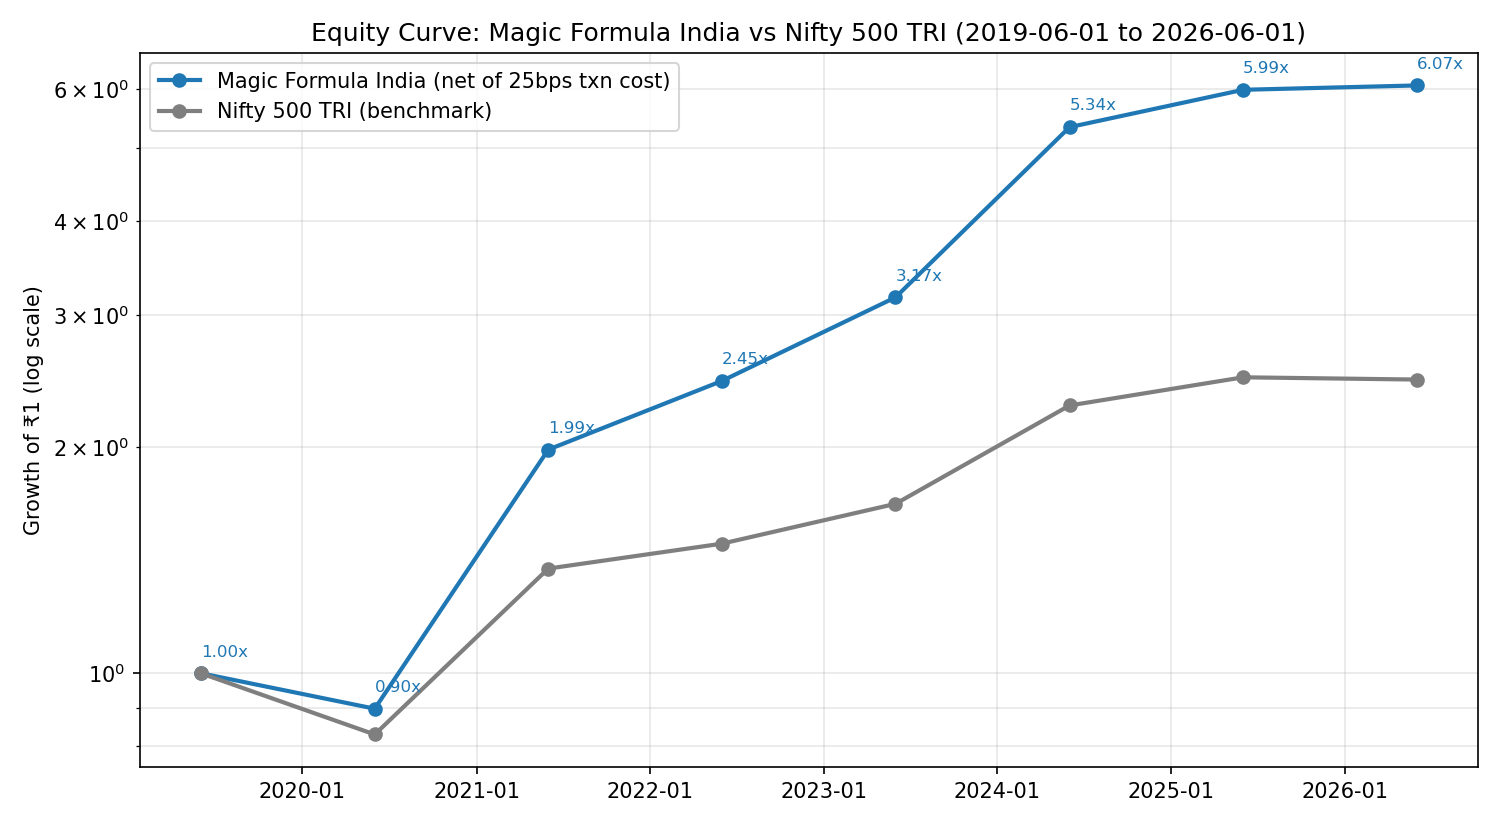
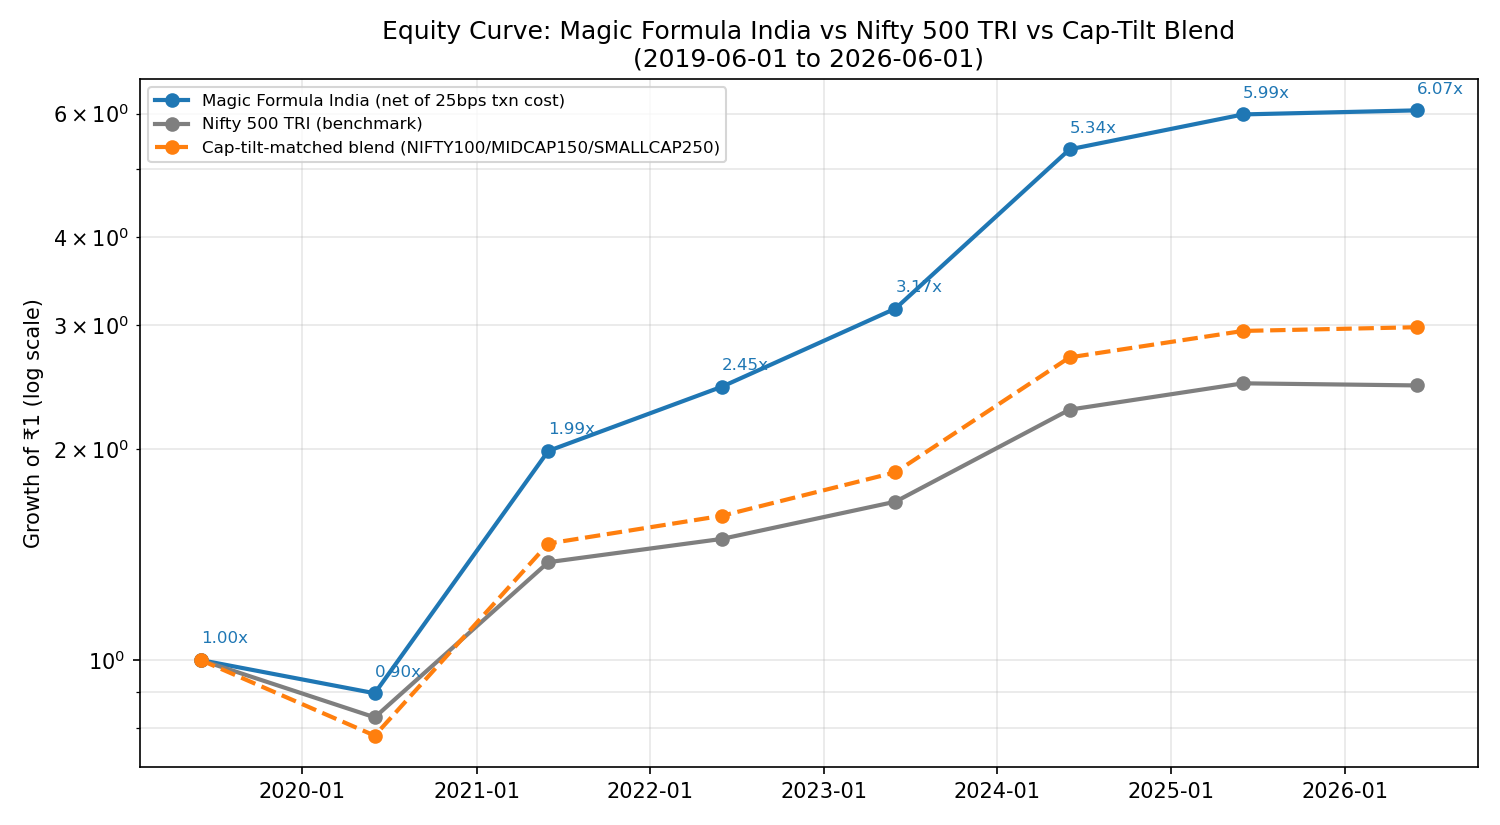
Cap-tilt-matched benchmark: isolate stock-selection alpha from cap-cycle riding
Nifty 500 TRI alone can't distinguish "picked better stocks" from "held
more small/mid-cap exposure during a period small/mid outperformed."
Built a second benchmark - NIFTY 100 (large) / NIFTY MIDCAP 150 (mid) /
NIFTY SMALLCAP 250 (small), real TRI values pulled live from
niftyindices.com, blended each period by the strategy's own actual
cap-bucket composition at that period's start (not a fixed weight).

Result: mean annual excess vs Nifty 500 TRI is +18.9%; vs the cap-tilt
blend it's +14.2% - about a quarter of the raw excess is explained by
cap-tilt, three-quarters survives after controlling for it. Blend beats
Nifty 500 TRI's own CAGR (16.9% vs 13.7%, as expected given the
strategy's mid/small tilt), and the strategy still beats the blend in
all 7 periods (100% hit rate against it too, not just against Nifty 500).

diff --git a/scripts/run_cap_tilt_benchmark.py b/scripts/run_cap_tilt_benchmark.py
@@ -1,0 +1,198 @@
+"""Cap-tilt-matched benchmark comparison, on top of the same real 2019-2026
+basket walk run_backtest_stats.py already produced. Re-derives the walk
+from the same cached universe/fundamentals/price data (no re-fetch) rather
+than importing run_backtest_stats.py directly, since scripts/ isn't a
+package - this duplicates the same setup pattern the other pilot scripts
+already use.
+
+Nifty 500 TRI alone conflates two different questions: did the strategy
+pick better stocks, and did it simply hold more small/mid-cap exposure
+during a period when small/mid outperformed large. A blended benchmark -
+NIFTY 100 (large) / NIFTY MIDCAP 150 (mid) / NIFTY SMALLCAP 250 (small),
+weighted each period by the strategy's OWN actual cap-bucket composition
+at the start of that period - isolates the first question from the
+second. If most of the excess return survives against this blend, that's
+real stock-selection alpha. If it mostly disappears, the strategy was
+riding the cap-tilt cycle, not picking better names within it.
+
+All three index TRI series pulled live from niftyindices.com's own
+"Total returns Index Values" report, same nearest-trading-day-on-or-
+before convention as the Nifty 500 TRI pull.
+"""
+
+from __future__ import annotations
+
+import pickle
+from datetime import date
+from pathlib import Path
+
+import pandas as pd
+
+from magicformula.data_fetch.fundamentals import FundamentalsRecord, _latest_record_per_symbol
+from magicformula.data_fetch.prices import (
+    PRICE_LOOKUP_MAX_TOLERANCE_DAYS,
+    SHARES_LOOKUP_MAX_TOLERANCE_DAYS,
+    nearest_value_lookup,
+)
+from magicformula.formulas import FinancialInputs, compute_metrics
+from magicformula.ranker import RankedStock, rank_universe
+from magicformula.backtest import run_backtest, compute_cagr, compute_annualized_volatility, compute_max_drawdown, compute_hit_rate
+from magicformula.universe import build_universe
+
+AMFI_XLSX_URL = "https://www.amfiindia.com/Themes/Theme1/downloads/AverageMarketCapitalization31Dec2025.xlsx"
+REBALANCE_DATES = [date(y, 6, 1) for y in range(2019, 2027)]
+TOP_N = 30
+SERIES_CACHE_PATH = Path("data/raw/point_in_time_series_cache.pkl")
+RISK_FREE_RATE = 0.053
+
+# Real Nifty 500 TRI, same 8 dates as run_backtest_stats.py
+NIFTY500_TRI = [14591.01, 12092.03, 20113.79, 21709.49, 24528.90, 33168.20, 36160.26, 35911.81]
+
+# Real NIFTY 100 (large-cap proxy) TRI, pulled live from niftyindices.com,
+# same nearest-trading-day-on-or-before convention.
+NIFTY100_TRI = [15338.44, 12917.31, 20613.31, 22079.79, 24595.51, 31772.04, 34591.14, 33645.29]
+# Real NIFTY MIDCAP 150 TRI
+MIDCAP150_TRI = [7774.49, 6346.04, 11932.83, 13233.54, 15828.39, 24327.24, 26763.04, 28378.90]
+# Real NIFTY SMALLCAP 250 TRI
+SMALLCAP250_TRI = [6497.86, 4449.73, 9758.89, 10814.89, 12497.92, 19664.65, 21308.95, 21463.20]
+
+
+def period_returns(series):
+    return [series[i + 1] / series[i] - 1 for i in range(len(series) - 1)]
+
+
+def load_fundamentals(symbols):
+    df = pd.read_parquet("data/raw/full_universe_fundamentals.parquet")
+    df = df[df["symbol"].isin(symbols)]
+    fields = [
+        "symbol", "sector", "broad_sector", "fiscal_year_end", "operating_profit",
+        "depreciation_amortization", "total_assets", "other_liabilities", "investments",
+        "cwip", "borrowings", "market_cap", "source_url", "statement", "cap_bucket",
+    ]
+    return [FundamentalsRecord(**row._asdict()) for row in df[fields].itertuples(index=False)]
+
+
+def make_rank_fn(price_shares_by_symbol, cap_bucket_by_symbol):
+    def rank_fn(eligible, rebalance_date):
+        latest = _latest_record_per_symbol(eligible)
+        metrics = []
+        for r in latest:
+            series = price_shares_by_symbol.get(r.symbol)
+            if series is None:
+                continue
+            price_series, shares_series = series
+            price = nearest_value_lookup(price_series, rebalance_date, max_days_tolerance=PRICE_LOOKUP_MAX_TOLERANCE_DAYS)
+            if price is None:
+                continue
+            shares = nearest_value_lookup(shares_series, rebalance_date, max_days_tolerance=SHARES_LOOKUP_MAX_TOLERANCE_DAYS)
+            if shares is None:
+                continue
+            market_cap = (price * shares) / 1e7
+            inputs = FinancialInputs(
+                symbol=r.symbol, operating_profit=r.operating_profit,
+                depreciation_amortization=r.depreciation_amortization,
+                total_assets=r.total_assets, current_liabilities=r.other_liabilities,
+                market_cap=market_cap, total_debt=r.borrowings,
+                cash_and_equivalents=0, other_liquid_investments=r.investments,
+            )
+            metrics.append(compute_metrics(inputs, roce_mode="standard"))
+        return rank_universe(metrics, mode="within_bucket", cap_bucket_by_symbol=cap_bucket_by_symbol)
+    return rank_fn
+
+
+def main():
+    entries = build_universe(AMFI_XLSX_URL, as_of=date(2026, 9, 6))
+    entry_by_symbol = {e.nse_symbol: e for e in entries if e.nse_symbol}
+    fundamentals_all = load_fundamentals(set(entry_by_symbol))
+    all_bucket_symbols = {e.nse_symbol for e in entries if e.cap_bucket in ("large", "mid", "small") and e.nse_symbol}
+    fundamentals = [r for r in fundamentals_all if r.symbol in all_bucket_symbols]
+    symbols_with_fundamentals = sorted({r.symbol for r in fundamentals})
+    cap_bucket_by_symbol = {s: entry_by_symbol[s].cap_bucket for s in symbols_with_fundamentals}
+    sector_by_symbol = {r.symbol: r.sector for r in fundamentals if r.sector}
+    listing_date_by_symbol = {
+        s: entry_by_symbol[s].date_of_listing for s in symbols_with_fundamentals
+        if entry_by_symbol[s].date_of_listing is not None
+    }
+
+    with SERIES_CACHE_PATH.open("rb") as f:
+        price_shares_by_symbol = pickle.load(f)
+
+    def price_lookup(symbol, d):
+        series = price_shares_by_symbol.get(symbol)
+        if series is None:
+            return None
+        price_series, _ = series
+        return nearest_value_lookup(price_series, d, max_days_tolerance=PRICE_LOOKUP_MAX_TOLERANCE_DAYS)
+
+    rank_fn = make_rank_fn(price_shares_by_symbol, cap_bucket_by_symbol)
+    nifty500_returns = period_returns(NIFTY500_TRI)
+
+    result = run_backtest(
+        REBALANCE_DATES, fundamentals, rank_fn, price_lookup, nifty500_returns,
+        top_n=TOP_N, sector_by_symbol=sector_by_symbol, listing_date_by_symbol=listing_date_by_symbol,
+        transaction_cost_bps=25.0, risk_free_rate=RISK_FREE_RATE, periods_per_year=1.0,
+    )
+
+    # Cap-bucket composition of the basket held INTO each period (i.e. the
+    # basket formed at the period's start date) - this is what the blend
+    # weight should track, matching what compute_period_return itself
+    # prices (step[i].outcome.weights held from step[i].date to step[i+1].date).
+    large_r = period_returns(NIFTY100_TRI)
+    mid_r = period_returns(MIDCAP150_TRI)
+    small_r = period_returns(SMALLCAP250_TRI)
+
+    print(f"{'Period':<26}{'Strategy':>10}{'Nifty500':>10}{'Blend':>10}{'ExcVs500':>10}{'ExcVsBlend':>12}{'L/M/S wt':>16}")
+    blended_returns = []
+    bucket_weights_by_period = []
+    for i, step in enumerate(result.steps[:-1]):
+        holdings = step.outcome.holdings
+        by_bucket = {"large": 0, "mid": 0, "small": 0}
+        for s in holdings:
+            b = cap_bucket_by_symbol.get(s)
+            if b in by_bucket:
+                by_bucket[b] += 1
+        n = sum(by_bucket.values())
+        w_large, w_mid, w_small = by_bucket["large"] / n, by_bucket["mid"] / n, by_bucket["small"] / n
+        bucket_weights_by_period.append((w_large, w_mid, w_small))
+        blend = w_large * large_r[i] + w_mid * mid_r[i] + w_small * small_r[i]
+        blended_returns.append(blend)
+
+        sr = result.period_returns[i]
+        br = result.benchmark_returns[i]
+        start, end = step.rebalance_date, result.steps[i + 1].rebalance_date
+        print(f"{start} -> {end}  {sr:+9.4f}{br:+10.4f}{blend:+10.4f}{sr-br:+10.4f}{sr-blend:+12.4f}"
+              f"   {w_large:.0%}/{w_mid:.0%}/{w_small:.0%}")
+
+    blend_cagr = compute_cagr(blended_returns, 1.0)
+    blend_vol = compute_annualized_volatility(blended_returns, 1.0)
+    from magicformula.backtest import compute_equity_curve
+    blend_equity = compute_equity_curve(blended_returns)
+    blend_dd = compute_max_drawdown(blend_equity)
+    blend_hit_rate = compute_hit_rate(result.period_returns, blended_returns)
+
+    print(f"\nBlended benchmark CAGR:  {blend_cagr:+.4%}")
+    print(f"Blended benchmark vol:   {blend_vol:.4%}")
+    print(f"Blended benchmark max drawdown: {blend_dd:.4%}")
+    print(f"Strategy hit rate vs blend: {blend_hit_rate:.4%}")
+    print(f"Strategy CAGR:           {result.stats.cagr:+.4%}")
+    print(f"\nMean annual excess vs Nifty 500 TRI: {sum(r-b for r,b in zip(result.period_returns, result.benchmark_returns))/len(result.period_returns):+.4%}")
+    print(f"Mean annual excess vs cap-tilt blend: {sum(r-b for r,b in zip(result.period_returns, blended_returns))/len(blended_returns):+.4%}")
+
+    print("\nBlended benchmark equity curve:", [round(v, 4) for v in blend_equity])
+    print("Strategy equity curve:         ", [round(v, 4) for v in result.equity_curve])
+
+    import json
+    with open("data/raw/cap_tilt_benchmark.json", "w") as f:
+        json.dump({
+            "period_returns": result.period_returns,
+            "nifty500_returns": result.benchmark_returns,
+            "blended_returns": blended_returns,
+            "bucket_weights_by_period": bucket_weights_by_period,
+            "rebalance_dates": [s.rebalance_date.isoformat() for s in result.steps],
+            "blend_stats": {"cagr": blend_cagr, "vol": blend_vol, "max_drawdown": blend_dd, "hit_rate_vs_strategy": blend_hit_rate},
+        }, f, indent=2)
+    print("\nWritten to data/raw/cap_tilt_benchmark.json")
+
+
+if __name__ == "__main__":
+    main()

diff --git a/scripts/generate_backtest_charts.py b/scripts/generate_backtest_charts.py
@@ -23,15 +23,29 @@ bench_equity = data["benchmark_equity_curve"]
 period_returns = data["period_returns"]
 benchmark_returns = data["benchmark_returns"]
 
+# Cap-tilt-matched blend, if available (scripts/run_cap_tilt_benchmark.py) -
+# isolates real stock-selection alpha from riding the small/mid-cap cycle.
+blend_equity = None
+try:
+    with open("data/raw/cap_tilt_benchmark.json") as f:
+        blend_data = json.load(f)
+    from magicformula.backtest import compute_equity_curve
+    blend_equity = compute_equity_curve(blend_data["blended_returns"])
+except FileNotFoundError:
+    pass
+
 fig, ax = plt.subplots(figsize=(10, 5.5))
 ax.plot(dates, equity, marker="o", linewidth=2, color="#1f77b4", label="Magic Formula India (net of 25bps txn cost)")
 ax.plot(dates, bench_equity, marker="o", linewidth=2, color="#7f7f7f", label="Nifty 500 TRI (benchmark)")
+if blend_equity is not None:
+    ax.plot(dates, blend_equity, marker="o", linewidth=2, color="#ff7f0e", linestyle="--",
+            label="Cap-tilt-matched blend (NIFTY100/MIDCAP150/SMALLCAP250)")
 ax.set_yscale("log")
 ax.set_ylabel("Growth of ₹1 (log scale)")
-ax.set_title("Equity Curve: Magic Formula India vs Nifty 500 TRI (2019-06-01 to 2026-06-01)")
+ax.set_title("Equity Curve: Magic Formula India vs Nifty 500 TRI vs Cap-Tilt Blend\n(2019-06-01 to 2026-06-01)")
 ax.xaxis.set_major_formatter(mdates.DateFormatter("%Y-%m"))
 ax.grid(True, which="both", alpha=0.3)
-ax.legend(loc="upper left")
+ax.legend(loc="upper left", fontsize=8)
 for d, v in zip(dates, equity):
     ax.annotate(f"{v:.2f}x", (d, v), textcoords="offset points", xytext=(0, 8), fontsize=8, color="#1f77b4")
 fig.tight_layout()
